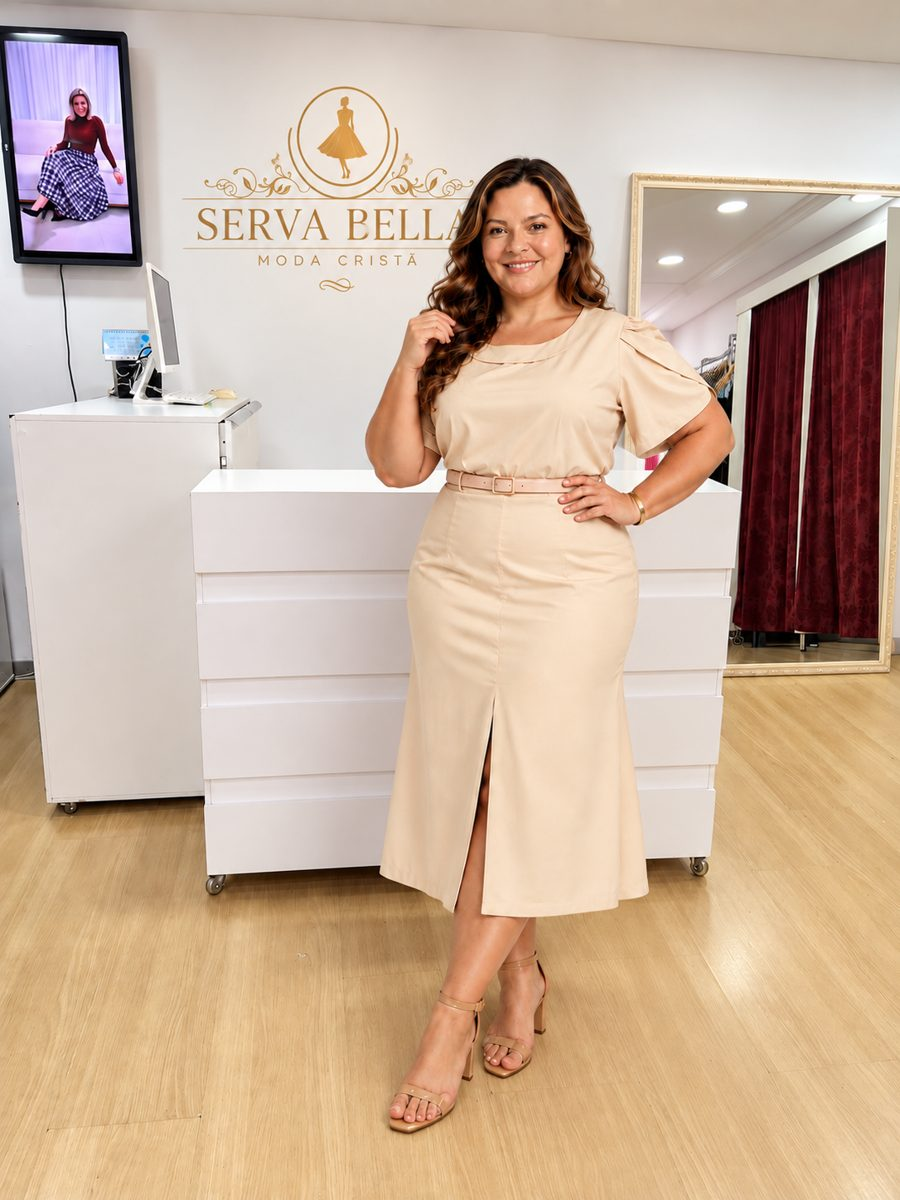
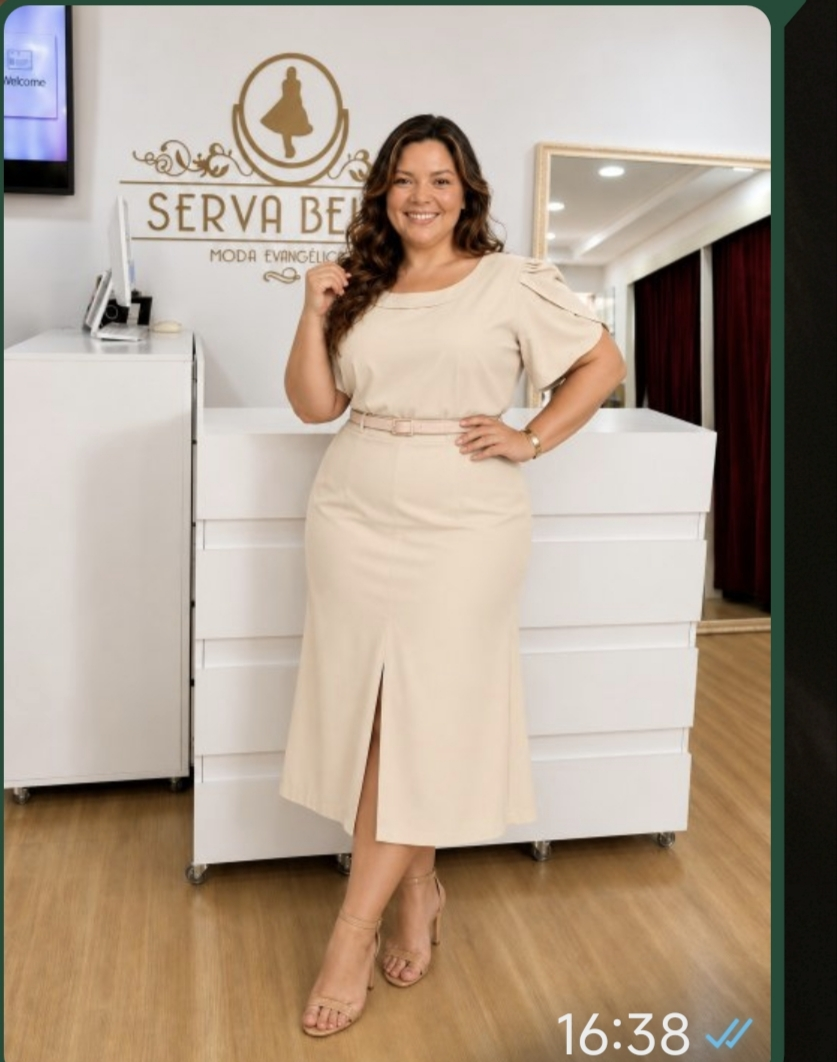
Add files via upload

diff --git a/index.html b/index.html
@@ -511,22 +511,6 @@
         Pedir
       </a>
     </article>
-<article class="card" id="AUR-20" data-cat="vestidos">
-      <div class="photo" data-images="img/v02a.jpg?v=1790706750|img/v02b.jpg?v=1790706750|img/v02c.jpg?v=1790706750">
-          <img src="img/v02a.jpg?v=1790706750" alt="Vestido de Crepe Sensorial" loading="lazy" onclick="openLightbox(this)">
-          <div class="thumbs"><button type="button" class="on" onclick="event.stopPropagation();swapPhoto(this,'img/v02a.jpg?v=1790706750')"></button><button type="button" class="" onclick="event.stopPropagation();swapPhoto(this,'img/v02b.jpg?v=1790706750')"></button><button type="button" class="" onclick="event.stopPropagation();swapPhoto(this,'img/v02c.jpg?v=1790706750')"></button></div>
-        </div>
-      <div class="info">
-        <div class="sku">AUR-20</div>
-        <div class="name">Vestido de Crepe Sensorial</div>
-        <div class="detail">Cor: Preto · Tamanho: Único</div>
-        <div class="price">R$ 199,99</div>
-      </div>
-      <a class="pedir-btn" href="https://wa.me/5527999666388?text=Ol%C3%A1%21%20Vi%20no%20cat%C3%A1logo%20e%20quero%20esta%20pe%C3%A7a%3A%0AVestido%20de%20Crepe%20Sensorial%20%28R%24%20199%2C99%29%0ACrepe%20leve%20e%20fluido%2C%20caimento%20elegante%20para%20o%20dia%20a%20dia%20ou%20ocasi%C3%B5es%20especiais%0ATamanho%3A%20%C3%9Anico%0A%0Ahttps%3A//servabella.github.io/Cat-logo-Aurora/img/v02a.jpg" target="_blank" rel="noopener">
-        <svg viewBox="0 0 24 24" fill="none" stroke="currentColor" stroke-width="2" stroke-linecap="round" stroke-linejoin="round"><path d="M21 11.5a8.4 8.4 0 0 1-12.4 7.4L3 21l2.1-5.4A8.4 8.4 0 1 1 21 11.5Z"/></svg>
-        Pedir
-      </a>
-    </article>
 <article class="card" id="AUR-21" data-cat="vestidos">
       <div class="photo" data-images="img/v21a.jpg?v=1790706750">
           <img src="img/v21a.jpg?v=1790706750" alt="Vestido de Linho c/ Lurex" loading="lazy" onclick="openLightbox(this)">
@@ -575,18 +559,50 @@
         Pedir
       </a>
     </article>
-<article class="card" id="AUR-24" data-cat="conjuntos plus">
-      <div class="photo" data-images="img/c02a.jpg?v=1790706750">
-          <img src="img/c02a.jpg?v=1790706750" alt="Conjunto de Crepe" loading="lazy" onclick="openLightbox(this)">
+<article class="card" id="AUR-42" data-cat="conjuntos">
+      <div class="photo" data-images="img/c21a.jpg?v=1790732000|img/c21b.jpg?v=1790732000">
+          <img src="img/c21a.jpg?v=1790732000" alt="Conjunto de Linho" loading="lazy" onclick="openLightbox(this)">
+          <div class="thumbs"><button type="button" class="on" onclick="event.stopPropagation();swapPhoto(this,'img/c21a.jpg?v=1790732000')"></button><button type="button" class="" onclick="event.stopPropagation();swapPhoto(this,'img/c21b.jpg?v=1790732000')"></button></div>
+        </div>
+      <div class="info">
+        <div class="sku">AUR-42</div>
+        <div class="name">Conjunto de Linho</div>
+        <div class="detail">Cor: Cru · Tamanho: GG</div>
+        <div class="price">R$ 279,99</div>
+      </div>
+      <a class="pedir-btn" href="https://wa.me/5527999666388?text=Ol%C3%A1%21%20Vi%20no%20cat%C3%A1logo%20e%20quero%20esta%20pe%C3%A7a%3A%0AConjunto%20de%20Linho%20%28R%24%20279%2C99%29%0AConjunto%20em%20linho%20fresco%2C%20ideal%20para%20o%20dia%20a%20dia%20com%20muito%20estilo%0ATamanho%3A%20GG%0A%0Ahttps%3A//servabella.github.io/Cat-logo-Aurora/img/c21a.jpg" target="_blank" rel="noopener">
+        <svg viewBox="0 0 24 24" fill="none" stroke="currentColor" stroke-width="2" stroke-linecap="round" stroke-linejoin="round"><path d="M21 11.5a8.4 8.4 0 0 1-12.4 7.4L3 21l2.1-5.4A8.4 8.4 0 1 1 21 11.5Z"/></svg>
+        Pedir
+      </a>
+    </article>
+<article class="card" id="AUR-24" data-cat="conjuntos">
+      <div class="photo" data-images="img/c19a.jpg?v=1790730000">
+          <img src="img/c19a.jpg?v=1790730000" alt="Conjunto de Crepe" loading="lazy" onclick="openLightbox(this)">
           
         </div>
       <div class="info">
         <div class="sku">AUR-24</div>
         <div class="name">Conjunto de Crepe</div>
-        <div class="detail">Cor: Bege · Tamanho: GG, G1</div>
+        <div class="detail">Cor: Bege · Tamanho: P, GG</div>
         <div class="price">R$ 229,99</div>
       </div>
-      <a class="pedir-btn" href="https://wa.me/5527999666388?text=Ol%C3%A1%21%20Vi%20no%20cat%C3%A1logo%20e%20quero%20esta%20pe%C3%A7a%3A%0AConjunto%20de%20Crepe%20%28R%24%20229%2C99%29%0AConjunto%20em%20crepe%20leve%2C%20pr%C3%A1tico%20e%20estiloso%0ATamanho%3A%20GG%2C%20G1%0A%0Ahttps%3A//servabella.github.io/Cat-logo-Aurora/img/c02a.jpg" target="_blank" rel="noopener">
+      <a class="pedir-btn" href="https://wa.me/5527999666388?text=Ol%C3%A1%21%20Vi%20no%20cat%C3%A1logo%20e%20quero%20esta%20pe%C3%A7a%3A%0AConjunto%20de%20Crepe%20%28R%24%20229%2C99%29%0AConjunto%20em%20crepe%20leve%2C%20pr%C3%A1tico%20e%20estiloso%0ATamanho%3A%20P%2C%20GG%0A%0Ahttps%3A//servabella.github.io/Cat-logo-Aurora/img/c19a.jpg" target="_blank" rel="noopener">
+        <svg viewBox="0 0 24 24" fill="none" stroke="currentColor" stroke-width="2" stroke-linecap="round" stroke-linejoin="round"><path d="M21 11.5a8.4 8.4 0 0 1-12.4 7.4L3 21l2.1-5.4A8.4 8.4 0 1 1 21 11.5Z"/></svg>
+        Pedir
+      </a>
+    </article>
+<article class="card" id="AUR-40" data-cat="conjuntos plus">
+      <div class="photo" data-images="img/c02a.jpg?v=1790706750">
+          <img src="img/c02a.jpg?v=1790706750" alt="Conjunto de Crepe" loading="lazy" onclick="openLightbox(this)">
+          
+        </div>
+      <div class="info">
+        <div class="sku">AUR-40</div>
+        <div class="name">Conjunto de Crepe</div>
+        <div class="detail">Cor: Bege · Tamanho: G1</div>
+        <div class="price">R$ 229,99</div>
+      </div>
+      <a class="pedir-btn" href="https://wa.me/5527999666388?text=Ol%C3%A1%21%20Vi%20no%20cat%C3%A1logo%20e%20quero%20esta%20pe%C3%A7a%3A%0AConjunto%20de%20Crepe%20%28R%24%20229%2C99%29%0AConjunto%20em%20crepe%20leve%2C%20pr%C3%A1tico%20e%20estiloso%0ATamanho%3A%20G1%0A%0Ahttps%3A//servabella.github.io/Cat-logo-Aurora/img/c02a.jpg" target="_blank" rel="noopener">
         <svg viewBox="0 0 24 24" fill="none" stroke="currentColor" stroke-width="2" stroke-linecap="round" stroke-linejoin="round"><path d="M21 11.5a8.4 8.4 0 0 1-12.4 7.4L3 21l2.1-5.4A8.4 8.4 0 1 1 21 11.5Z"/></svg>
         Pedir
       </a>
@@ -607,7 +623,39 @@
         Pedir
       </a>
     </article>
-<article class="card" id="AUR-26" data-cat="conjuntos plus">
+<article class="card" id="AUR-41" data-cat="conjuntos">
+      <div class="photo" data-images="img/c20a.jpg?v=1790731000|img/c20b.jpg?v=1790731000">
+          <img src="img/c20a.jpg?v=1790731000" alt="Conjunto de Crepe Sensorial" loading="lazy" onclick="openLightbox(this)">
+          <div class="thumbs"><button type="button" class="on" onclick="event.stopPropagation();swapPhoto(this,'img/c20a.jpg?v=1790731000')"></button><button type="button" class="" onclick="event.stopPropagation();swapPhoto(this,'img/c20b.jpg?v=1790731000')"></button></div>
+        </div>
+      <div class="info">
+        <div class="sku">AUR-41</div>
+        <div class="name">Conjunto de Crepe Sensorial</div>
+        <div class="detail">Cor: Rosa · Tamanho: P</div>
+        <div class="price">R$ 229,99</div>
+      </div>
+      <a class="pedir-btn" href="https://wa.me/5527999666388?text=Ol%C3%A1%21%20Vi%20no%20cat%C3%A1logo%20e%20quero%20esta%20pe%C3%A7a%3A%0AConjunto%20de%20Crepe%20Sensorial%20%28R%24%20229%2C99%29%0AConjunto%20em%20crepe%20sensorial%2C%20conforto%20e%20eleg%C3%A2ncia%0ATamanho%3A%20P%0A%0Ahttps%3A//servabella.github.io/Cat-logo-Aurora/img/c20a.jpg" target="_blank" rel="noopener">
+        <svg viewBox="0 0 24 24" fill="none" stroke="currentColor" stroke-width="2" stroke-linecap="round" stroke-linejoin="round"><path d="M21 11.5a8.4 8.4 0 0 1-12.4 7.4L3 21l2.1-5.4A8.4 8.4 0 1 1 21 11.5Z"/></svg>
+        Pedir
+      </a>
+    </article>
+<article class="card" id="AUR-44" data-cat="conjuntos">
+      <div class="photo" data-images="img/c23a.jpg?v=1790734000">
+          <img src="img/c23a.jpg?v=1790734000" alt="Conjunto de Linho" loading="lazy" onclick="openLightbox(this)">
+          
+        </div>
+      <div class="info">
+        <div class="sku">AUR-44</div>
+        <div class="name">Conjunto de Linho</div>
+        <div class="detail">Cor: Rosa · Tamanho: Único</div>
+        <div class="price">R$ 219,99</div>
+      </div>
+      <a class="pedir-btn" href="https://wa.me/5527999666388?text=Ol%C3%A1%21%20Vi%20no%20cat%C3%A1logo%20e%20quero%20esta%20pe%C3%A7a%3A%0AConjunto%20de%20Linho%20%28R%24%20219%2C99%29%0AConjunto%20em%20linho%20fresco%2C%20ideal%20para%20o%20dia%20a%20dia%20com%20muito%20estilo%0ATamanho%3A%20%C3%9Anico%0A%0Ahttps%3A//servabella.github.io/Cat-logo-Aurora/img/c23a.jpg" target="_blank" rel="noopener">
+        <svg viewBox="0 0 24 24" fill="none" stroke="currentColor" stroke-width="2" stroke-linecap="round" stroke-linejoin="round"><path d="M21 11.5a8.4 8.4 0 0 1-12.4 7.4L3 21l2.1-5.4A8.4 8.4 0 1 1 21 11.5Z"/></svg>
+        Pedir
+      </a>
+    </article>
+<article class="card" id="AUR-26" data-cat="conjuntos">
       <div class="photo" data-images="img/c03a.jpg?v=1790706750">
           <img src="img/c03a.jpg?v=1790706750" alt="Conjunto de Crepe Sensorial" loading="lazy" onclick="openLightbox(this)">
           
@@ -615,10 +663,42 @@
       <div class="info">
         <div class="sku">AUR-26</div>
         <div class="name">Conjunto de Crepe Sensorial</div>
-        <div class="detail">Cor: Marsala · Tamanho: M, GG, G2</div>
+        <div class="detail">Cor: Marsala · Tamanho: M, GG</div>
         <div class="price">R$ 229,99</div>
       </div>
-      <a class="pedir-btn" href="https://wa.me/5527999666388?text=Ol%C3%A1%21%20Vi%20no%20cat%C3%A1logo%20e%20quero%20esta%20pe%C3%A7a%3A%0AConjunto%20de%20Crepe%20Sensorial%20%28R%24%20229%2C99%29%0AConjunto%20em%20crepe%20sensorial%2C%20conforto%20e%20eleg%C3%A2ncia%0ATamanho%3A%20M%2C%20GG%2C%20G2%0A%0Ahttps%3A//servabella.github.io/Cat-logo-Aurora/img/c03a.jpg" target="_blank" rel="noopener">
+      <a class="pedir-btn" href="https://wa.me/5527999666388?text=Ol%C3%A1%21%20Vi%20no%20cat%C3%A1logo%20e%20quero%20esta%20pe%C3%A7a%3A%0AConjunto%20de%20Crepe%20Sensorial%20%28R%24%20229%2C99%29%0AConjunto%20em%20crepe%20sensorial%2C%20conforto%20e%20eleg%C3%A2ncia%0ATamanho%3A%20M%2C%20GG%0A%0Ahttps%3A//servabella.github.io/Cat-logo-Aurora/img/c03a.jpg" target="_blank" rel="noopener">
+        <svg viewBox="0 0 24 24" fill="none" stroke="currentColor" stroke-width="2" stroke-linecap="round" stroke-linejoin="round"><path d="M21 11.5a8.4 8.4 0 0 1-12.4 7.4L3 21l2.1-5.4A8.4 8.4 0 1 1 21 11.5Z"/></svg>
+        Pedir
+      </a>
+    </article>
+<article class="card" id="AUR-39" data-cat="conjuntos plus">
+      <div class="photo" data-images="img/c18a.jpg?v=1790730000">
+          <img src="img/c18a.jpg?v=1790730000" alt="Conjunto de Crepe Sensorial" loading="lazy" onclick="openLightbox(this)">
+          
+        </div>
+      <div class="info">
+        <div class="sku">AUR-39</div>
+        <div class="name">Conjunto de Crepe Sensorial</div>
+        <div class="detail">Cor: Marsala · Tamanho: G2</div>
+        <div class="price">R$ 229,99</div>
+      </div>
+      <a class="pedir-btn" href="https://wa.me/5527999666388?text=Ol%C3%A1%21%20Vi%20no%20cat%C3%A1logo%20e%20quero%20esta%20pe%C3%A7a%3A%0AConjunto%20de%20Crepe%20Sensorial%20%28R%24%20229%2C99%29%0AConjunto%20em%20crepe%20sensorial%2C%20conforto%20e%20eleg%C3%A2ncia%0ATamanho%3A%20G2%0A%0Ahttps%3A//servabella.github.io/Cat-logo-Aurora/img/c18a.jpg" target="_blank" rel="noopener">
+        <svg viewBox="0 0 24 24" fill="none" stroke="currentColor" stroke-width="2" stroke-linecap="round" stroke-linejoin="round"><path d="M21 11.5a8.4 8.4 0 0 1-12.4 7.4L3 21l2.1-5.4A8.4 8.4 0 1 1 21 11.5Z"/></svg>
+        Pedir
+      </a>
+    </article>
+<article class="card" id="AUR-43" data-cat="conjuntos plus">
+      <div class="photo" data-images="img/c22a.jpg?v=1790733000">
+          <img src="img/c22a.jpg?v=1790733000" alt="Conjunto de Crepe" loading="lazy" onclick="openLightbox(this)">
+          
+        </div>
+      <div class="info">
+        <div class="sku">AUR-43</div>
+        <div class="name">Conjunto de Crepe</div>
+        <div class="detail">Cor: Terracota · Tamanho: PLUS</div>
+        <div class="price">R$ 229,99</div>
+      </div>
+      <a class="pedir-btn" href="https://wa.me/5527999666388?text=Ol%C3%A1%21%20Vi%20no%20cat%C3%A1logo%20e%20quero%20esta%20pe%C3%A7a%3A%0AConjunto%20de%20Crepe%20%28R%24%20229%2C99%29%0AConjunto%20em%20crepe%20leve%2C%20pr%C3%A1tico%20e%20estiloso%0ATamanho%3A%20PLUS%0A%0Ahttps%3A//servabella.github.io/Cat-logo-Aurora/img/c22a.jpg" target="_blank" rel="noopener">
         <svg viewBox="0 0 24 24" fill="none" stroke="currentColor" stroke-width="2" stroke-linecap="round" stroke-linejoin="round"><path d="M21 11.5a8.4 8.4 0 0 1-12.4 7.4L3 21l2.1-5.4A8.4 8.4 0 1 1 21 11.5Z"/></svg>
         Pedir
       </a>
@@ -719,22 +799,6 @@
         Pedir
       </a>
     </article>
-<article class="card" id="AUR-33" data-cat="conjuntos">
-      <div class="photo" data-images="img/c12a.jpg?v=1790706750|img/c12b.jpg?v=1790706750">
-          <img src="img/c12a.jpg?v=1790706750" alt="Conjunto de Crepe Sensorial" loading="lazy" onclick="openLightbox(this)">
-          <div class="thumbs"><button type="button" class="on" onclick="event.stopPropagation();swapPhoto(this,'img/c12a.jpg?v=1790706750')"></button><button type="button" class="" onclick="event.stopPropagation();swapPhoto(this,'img/c12b.jpg?v=1790706750')"></button></div>
-        </div>
-      <div class="info">
-        <div class="sku">AUR-33</div>
-        <div class="name">Conjunto de Crepe Sensorial</div>
-        <div class="detail">Cor: Verde · Tamanho: G</div>
-        <div class="price">R$ 229,99</div>
-      </div>
-      <a class="pedir-btn" href="https://wa.me/5527999666388?text=Ol%C3%A1%21%20Vi%20no%20cat%C3%A1logo%20e%20quero%20esta%20pe%C3%A7a%3A%0AConjunto%20de%20Crepe%20Sensorial%20%28R%24%20229%2C99%29%0AConjunto%20em%20crepe%20sensorial%2C%20conforto%20e%20eleg%C3%A2ncia%0ATamanho%3A%20G%0A%0Ahttps%3A//servabella.github.io/Cat-logo-Aurora/img/c12a.jpg" target="_blank" rel="noopener">
-        <svg viewBox="0 0 24 24" fill="none" stroke="currentColor" stroke-width="2" stroke-linecap="round" stroke-linejoin="round"><path d="M21 11.5a8.4 8.4 0 0 1-12.4 7.4L3 21l2.1-5.4A8.4 8.4 0 1 1 21 11.5Z"/></svg>
-        Pedir
-      </a>
-    </article>
 <article class="card" id="AUR-34" data-cat="conjuntos">
       <div class="photo" data-images="img/c13a.jpg?v=1790706750|img/c13b.jpg?v=1790706750">
           <img src="img/c13a.jpg?v=1790706750" alt="Conjunto de Linho" loading="lazy" onclick="openLightbox(this)">
@@ -743,7 +807,7 @@
       <div class="info">
         <div class="sku">AUR-34</div>
         <div class="name">Conjunto de Linho</div>
-        <div class="detail">Cor: Azul · Tamanho: G</div>
+        <div class="detail">Cor: Verde Esmeralda · Tamanho: G</div>
         <div class="price">R$ 279,99</div>
       </div>
       <a class="pedir-btn" href="https://wa.me/5527999666388?text=Ol%C3%A1%21%20Vi%20no%20cat%C3%A1logo%20e%20quero%20esta%20pe%C3%A7a%3A%0AConjunto%20de%20Linho%20%28R%24%20279%2C99%29%0AConjunto%20em%20linho%20fresco%2C%20ideal%20para%20o%20dia%20a%20dia%20com%20muito%20estilo%0ATamanho%3A%20G%0A%0Ahttps%3A//servabella.github.io/Cat-logo-Aurora/img/c13a.jpg" target="_blank" rel="noopener">
@@ -775,10 +839,10 @@
       <div class="info">
         <div class="sku">AUR-36</div>
         <div class="name">Conjunto de Crepe Sensorial</div>
-        <div class="detail">Cor: Azul · Tamanho: Único</div>
+        <div class="detail">Cor: Azul · Tamanho: Único, GG</div>
         <div class="price">R$ 229,99</div>
       </div>
-      <a class="pedir-btn" href="https://wa.me/5527999666388?text=Ol%C3%A1%21%20Vi%20no%20cat%C3%A1logo%20e%20quero%20esta%20pe%C3%A7a%3A%0AConjunto%20de%20Crepe%20Sensorial%20%28R%24%20229%2C99%29%0AConjunto%20em%20crepe%20sensorial%2C%20conforto%20e%20eleg%C3%A2ncia%0ATamanho%3A%20%C3%9Anico%0A%0Ahttps%3A//servabella.github.io/Cat-logo-Aurora/img/c14a.jpg" target="_blank" rel="noopener">
+      <a class="pedir-btn" href="https://wa.me/5527999666388?text=Ol%C3%A1%21%20Vi%20no%20cat%C3%A1logo%20e%20quero%20esta%20pe%C3%A7a%3A%0AConjunto%20de%20Crepe%20Sensorial%20%28R%24%20229%2C99%29%0AConjunto%20em%20crepe%20sensorial%2C%20conforto%20e%20eleg%C3%A2ncia%0ATamanho%3A%20%C3%9Anico%2C%20GG%0A%0Ahttps%3A//servabella.github.io/Cat-logo-Aurora/img/c14a.jpg" target="_blank" rel="noopener">
         <svg viewBox="0 0 24 24" fill="none" stroke="currentColor" stroke-width="2" stroke-linecap="round" stroke-linejoin="round"><path d="M21 11.5a8.4 8.4 0 0 1-12.4 7.4L3 21l2.1-5.4A8.4 8.4 0 1 1 21 11.5Z"/></svg>
         Pedir
       </a>
